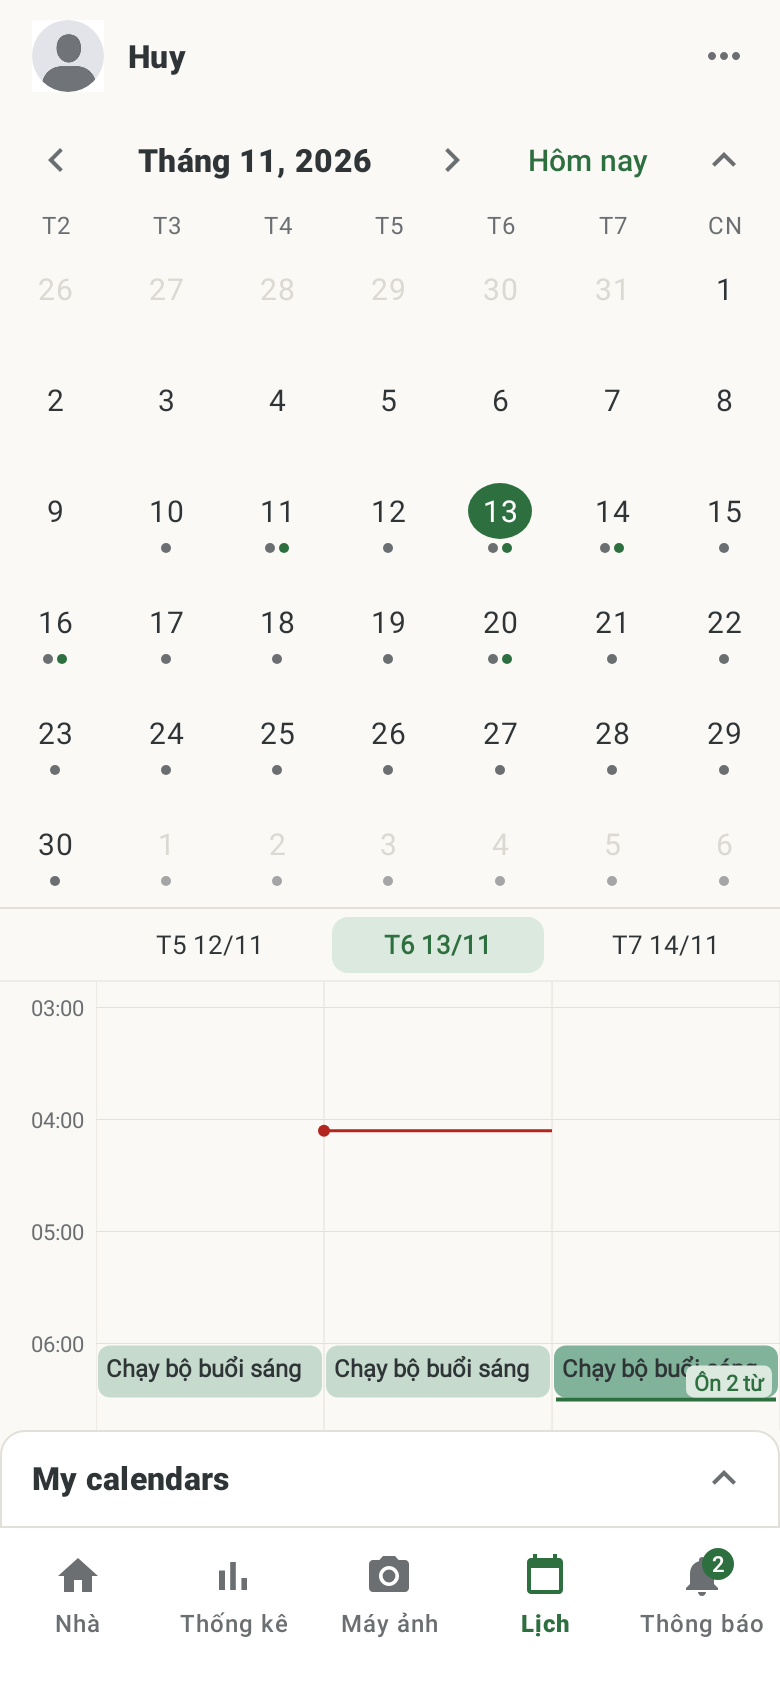
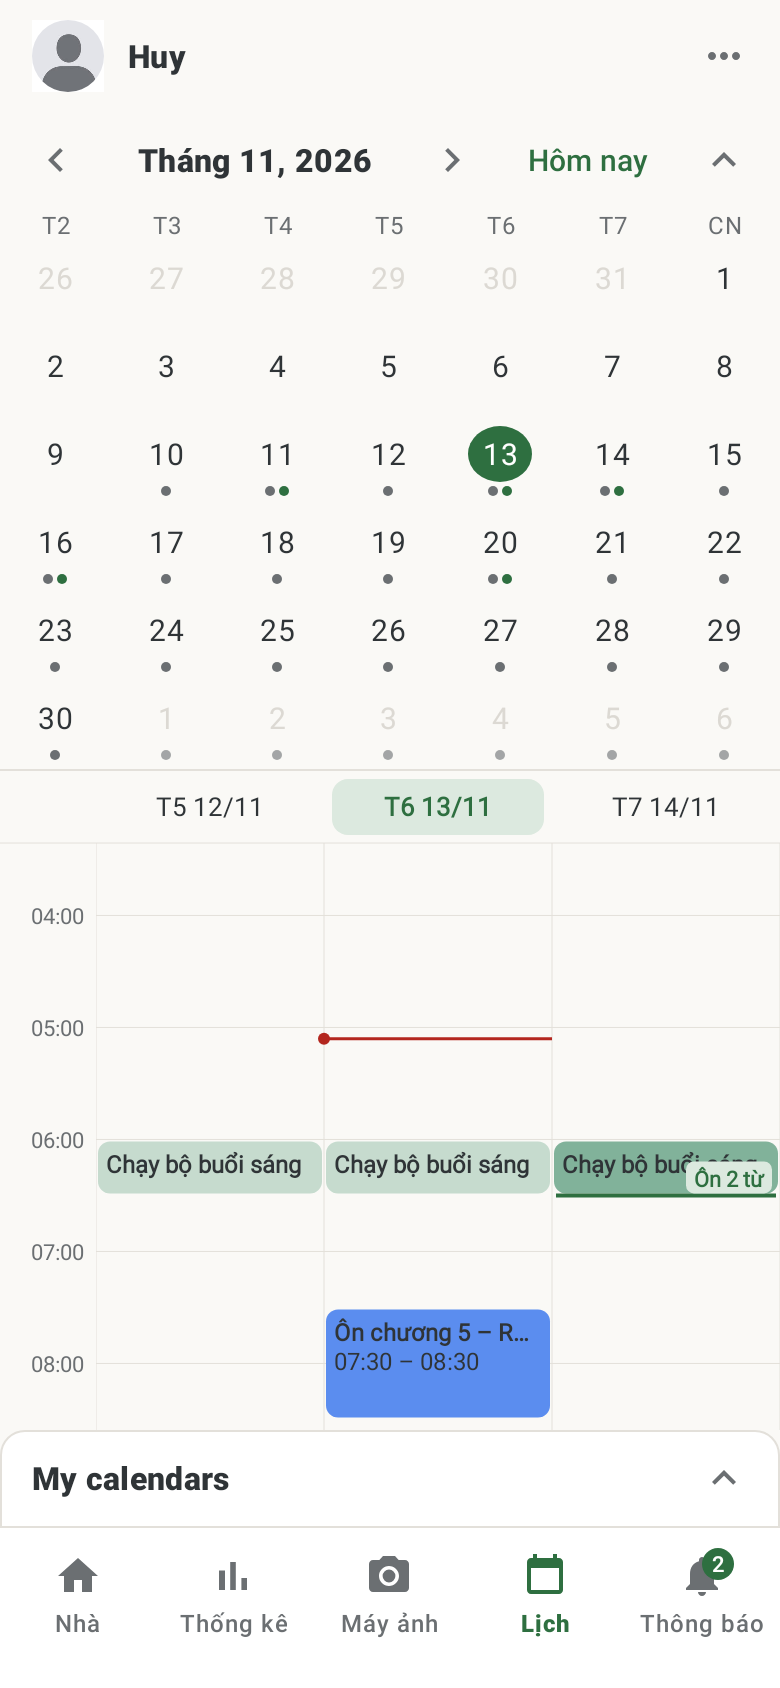
Sửa thời khóa biểu bị lịch tháng ép mất trên màn Lịch
Thư viện lịch mặc định vẽ ô ngày hình vuông (cao = 1/7 chiều rộng màn hình) và
bỏ qua chiều cao 44dp của layout. Với tháng có 6 hàng tuần, lịch tháng chiếm
306–352dp; trên điện thoại nhỏ thời khóa biểu chỉ còn ~80dp (gần 0 sau khi trừ
thanh hệ thống) và biến mất ngay khi lịch nạp xong dữ liệu.

- cv_daySize=seventhWidth: ô ngày cao cố định 44dp (lịch tháng tối đa 264dp)
- Thời khóa biểu thấp hơn 200dp thì tự thu gọn lịch về một hàng tuần, trừ khi
  người dùng đã tự mở rộng lại
- Kiểm thử CalendarLayoutTest cho màn vừa và màn nhỏ

Claude-Session: https://claude.ai/code/session_0154nMYfN9JMaQ3ttxvQ6Yeq

diff --git a/app/src/test/java/com/reno/app/ui/CalendarLayoutTest.java b/app/src/test/java/com/reno/app/ui/CalendarLayoutTest.java
@@ -1,0 +1,111 @@
+package com.reno.app.ui;
+
+import static org.junit.Assert.assertEquals;
+import static org.junit.Assert.assertTrue;
+
+import android.content.Intent;
+import android.graphics.Bitmap;
+import android.graphics.Canvas;
+import android.view.View;
+
+import com.google.android.material.bottomnavigation.BottomNavigationView;
+import com.reno.app.R;
+import com.reno.app.TestEnv;
+import com.reno.app.data.db.RenoDatabase;
+import com.reno.app.data.db.entity.UserEntity;
+import com.reno.app.ui.main.MainActivity;
+import com.reno.app.util.SessionManager;
+
+import org.junit.After;
+import org.junit.Test;
+import org.junit.runner.RunWith;
+import org.robolectric.Robolectric;
+import org.robolectric.RobolectricTestRunner;
+import org.robolectric.RuntimeEnvironment;
+import org.robolectric.android.controller.ActivityController;
+
+import java.io.File;
+import java.io.FileOutputStream;
+
+/**
+ * Thời khóa biểu phải luôn còn chỗ hiển thị. Trước đây ô ngày của lịch tháng vuông (cao bằng
+ * 1/7 chiều rộng) nên với tháng 6 hàng tuần, thời khóa biểu bị ép gần như mất hẳn.
+ */
+@RunWith(RobolectricTestRunner.class)
+@org.robolectric.annotation.GraphicsMode(org.robolectric.annotation.GraphicsMode.Mode.NATIVE)
+public class CalendarLayoutTest {
+    private ActivityController<MainActivity> controller;
+
+    @After
+    public void tearDown() throws Exception {
+        if (controller != null) controller.pause().stop().destroy();
+        TestEnv.settle();
+        TestEnv.flushSharedPreferences();
+    }
+
+    private MainActivity openCalendar(String qualifiers) throws Exception {
+        RuntimeEnvironment.setQualifiers(qualifiers);
+        TestEnv.reset();
+        UserEntity u = new UserEntity();
+        u.username = "huy";
+        u.email = "huy@reno.test";
+        u.passwordHash = "x";
+        u.reviewTime = "20:00";
+        long id = RenoDatabase.get(TestEnv.context()).userDao().insert(u);
+        SessionManager.login(TestEnv.context(), id);
+        controller = Robolectric.buildActivity(MainActivity.class,
+                new Intent(TestEnv.context(), MainActivity.class)).setup();
+        MainActivity main = controller.get();
+        ((BottomNavigationView) main.findViewById(R.id.bottom_nav))
+                .setSelectedItemId(R.id.nav_calendar);
+        TestEnv.settle();
+        return main;
+    }
+
+    private static float dp(View v, int px) {
+        return px / v.getResources().getDisplayMetrics().density;
+    }
+
+    @Test
+    public void mediumPhone_monthStaysOpen_timetableHasRoom() throws Exception {
+        MainActivity main = openCalendar("w393dp-h851dp-port-xxhdpi");
+        View month = main.findViewById(R.id.month_calendar);
+        View timetable = main.findViewById(R.id.timetable);
+        assertEquals(View.VISIBLE, month.getVisibility());
+        // 6 hàng tuần × 44dp: không còn phụ thuộc chiều rộng màn hình
+        assertTrue("lịch tháng cao " + dp(month, month.getHeight()) + "dp",
+                dp(month, month.getHeight()) <= 6 * 44 + 1);
+        assertTrue("thời khóa biểu chỉ cao " + dp(timetable, timetable.getHeight()) + "dp",
+                dp(timetable, timetable.getHeight()) >= 200);
+    }
+
+    @Test
+    public void smallPhone_monthAutoCollapses_toKeepTimetableVisible() throws Exception {
+        MainActivity main = openCalendar("w360dp-h640dp-port-xhdpi");
+        View timetable = main.findViewById(R.id.timetable);
+        assertEquals(View.GONE, main.findViewById(R.id.month_calendar).getVisibility());
+        assertEquals(View.VISIBLE, main.findViewById(R.id.week_calendar).getVisibility());
+        assertTrue("thời khóa biểu chỉ cao " + dp(timetable, timetable.getHeight()) + "dp",
+                dp(timetable, timetable.getHeight()) >= 200);
+
+        // Người dùng tự mở rộng lại thì tôn trọng lựa chọn đó.
+        main.findViewById(R.id.btn_collapse).performClick();
+        TestEnv.settle();
+        assertEquals(View.VISIBLE, main.findViewById(R.id.month_calendar).getVisibility());
+
+        if (Boolean.getBoolean("reno.screenshots")) {
+            main.findViewById(R.id.btn_collapse).performClick();
+            TestEnv.settle();
+            View root = main.getWindow().getDecorView();
+            Bitmap bitmap = Bitmap.createBitmap(root.getWidth(), root.getHeight(),
+                    Bitmap.Config.ARGB_8888);
+            root.draw(new Canvas(bitmap));
+            File dir = new File(System.getProperty("reno.screenshotDir", "build/screenshots"));
+            if (!dir.exists() && !dir.mkdirs()) throw new IllegalStateException("mkdir " + dir);
+            try (FileOutputStream out = new FileOutputStream(new File(dir,
+                    "calendar_small_phone.png"))) {
+                bitmap.compress(Bitmap.CompressFormat.PNG, 100, out);
+            }
+        }
+    }
+}

diff --git a/app/src/main/java/com/reno/app/ui/calendar/CalendarFragment.java b/app/src/main/java/com/reno/app/ui/calendar/CalendarFragment.java
@@ -83,7 +83,21 @@ public class CalendarFragment extends Fragment {
         });
         b.btnCollapse.setOnClickListener(v -> {
             vm.collapsed = !vm.collapsed;
+            if (!vm.collapsed) vm.userExpanded = true;
             applyCollapsed();
+        });
+        // Màn hình thấp (hoặc tháng có 6 hàng tuần): lịch tháng chiếm gần hết chỗ và thời khóa
+        // biểu bị ép mất. Khi đó tự thu gọn lịch về một hàng tuần, trừ khi người dùng đã tự
+        // mở rộng lại.
+        b.timetable.addOnLayoutChangeListener((v, l, t, r, bottom, ol, ot, or, ob) -> {
+            if (vm.collapsed || vm.userExpanded || b == null) return;
+            int min = getResources().getDimensionPixelSize(R.dimen.timetable_min_height);
+            if (bottom - t < min) {
+                vm.collapsed = true;
+                v.post(() -> {
+                    if (b != null) applyCollapsed();
+                });
+            }
         });
         b.btnToday.setOnClickListener(v -> selectDate(DateUtils.today(), true));
         b.btnPrev.setOnClickListener(v -> step(-1));

diff --git a/app/src/main/java/com/reno/app/ui/calendar/CalendarViewModel.java b/app/src/main/java/com/reno/app/ui/calendar/CalendarViewModel.java
@@ -52,6 +52,8 @@ public class CalendarViewModel extends AndroidViewModel {
     private final MutableLiveData<Integer> hiddenVersion = new MutableLiveData<>(0);
     private final LiveData<Data> data;
     public boolean collapsed;
+    /** Người dùng tự bấm mở rộng lịch tháng: không tự thu gọn nữa. */
+    public boolean userExpanded;
 
     public CalendarViewModel(@NonNull Application app) {
         super(app);
